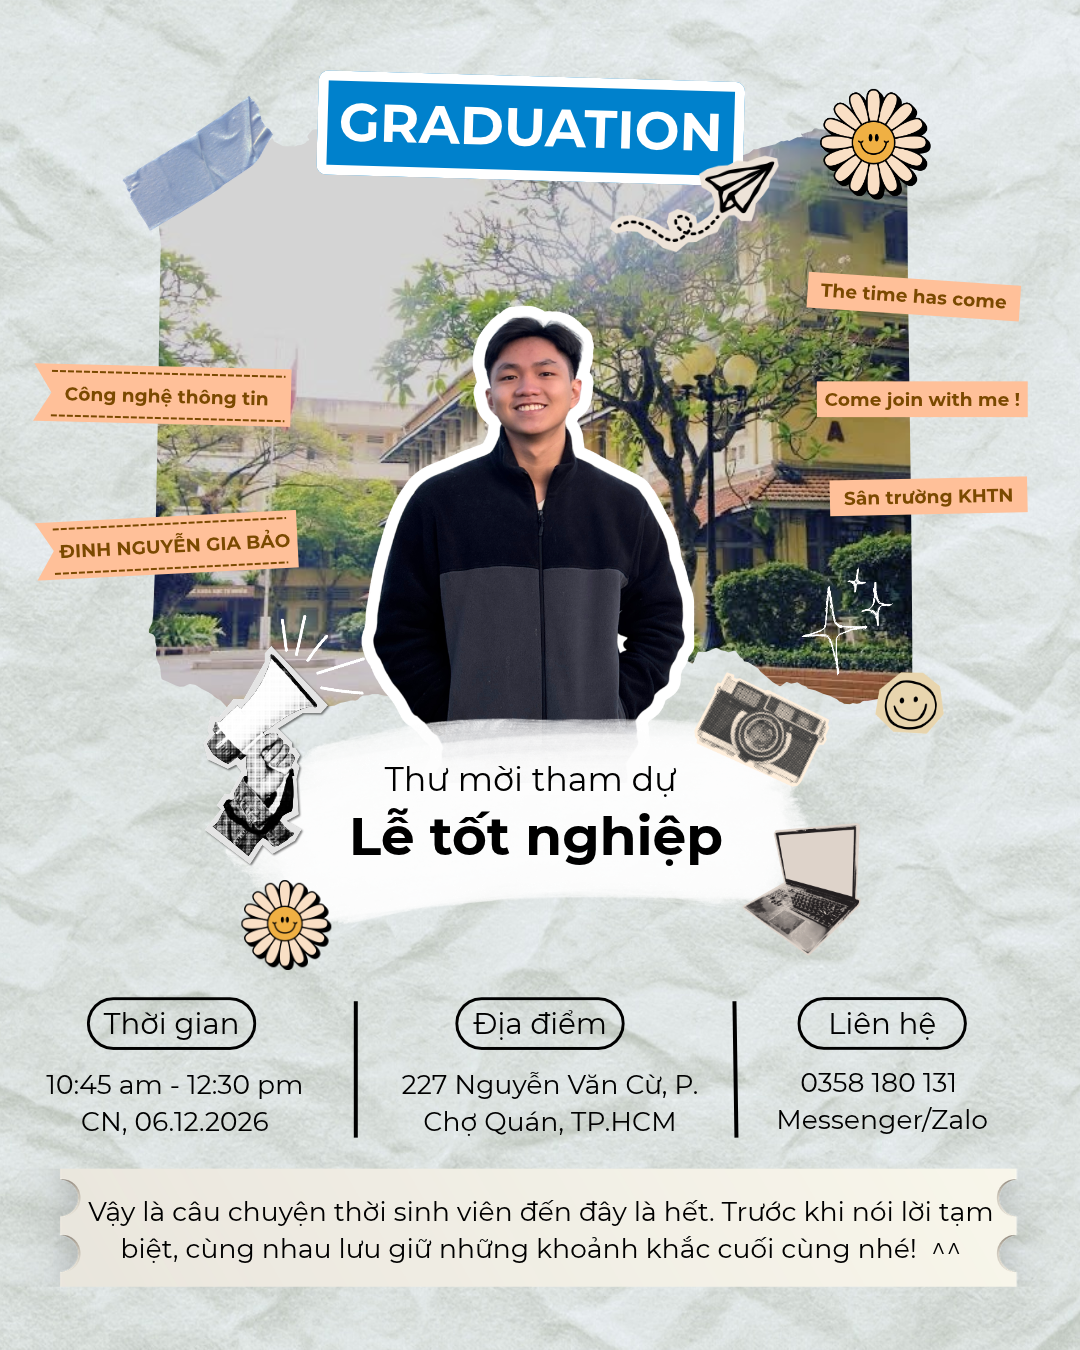
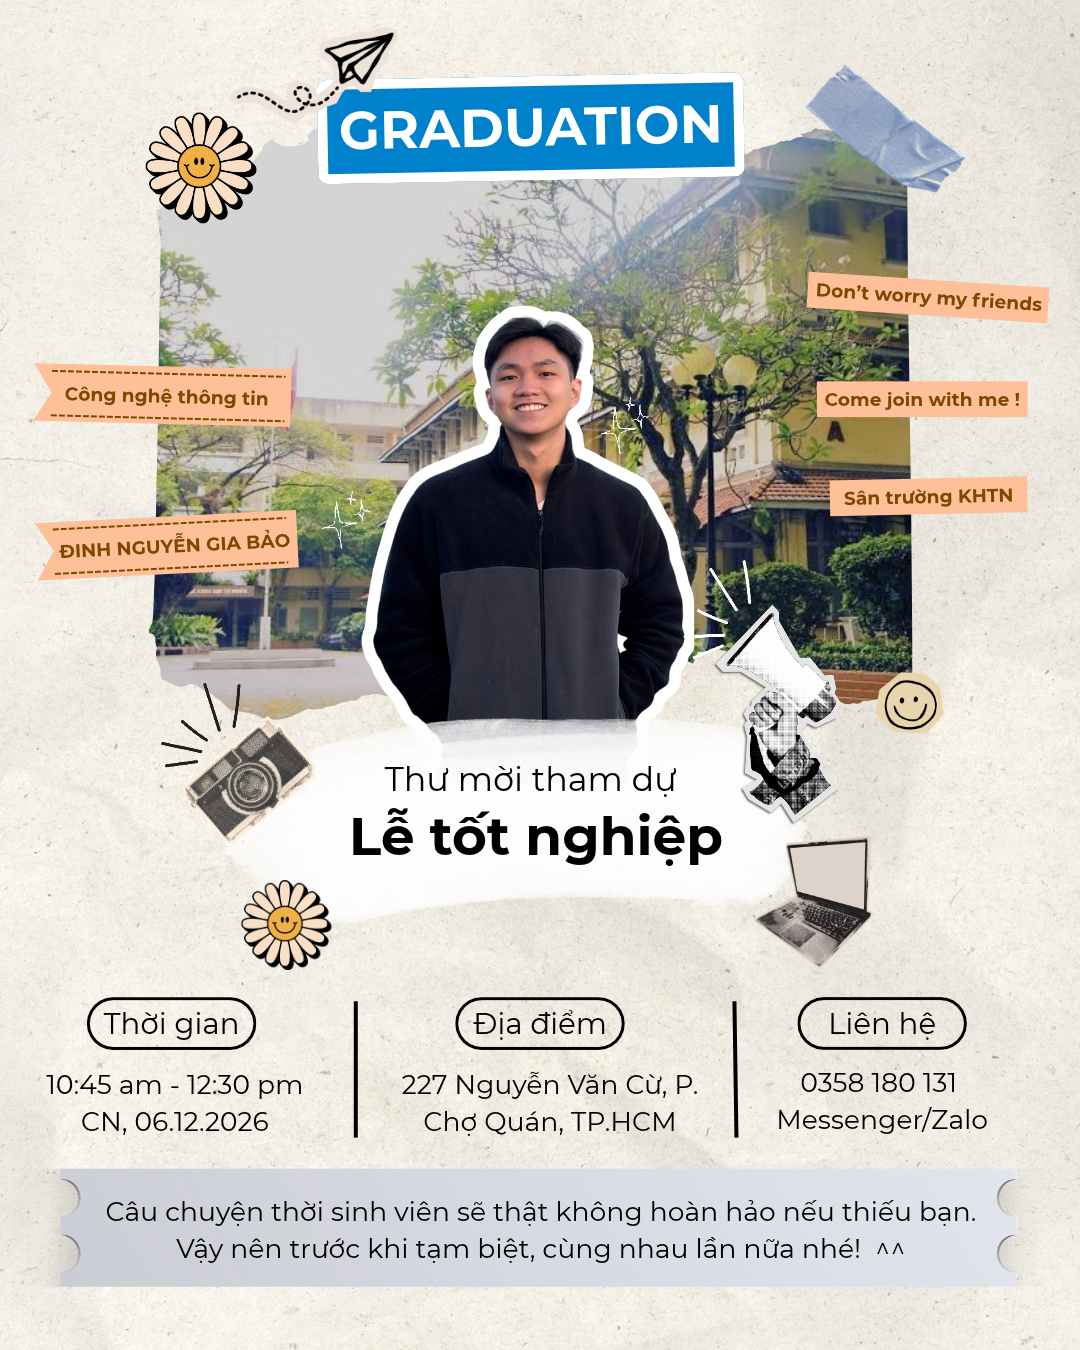
Fix image + remove option 3

diff --git a/src/components/Section1Intro.jsx b/src/components/Section1Intro.jsx
@@ -76,7 +76,7 @@ export default function Section1Intro({ selectedOption, setSelectedOption }) {
 
   useEffect(() => {
     // Target dates
-    const targetDate = (selectedOption === 'option1' || selectedOption === 'both')
+    const targetDate = selectedOption === 'option1'
       ? new Date('2026-11-26T11:00:00+07:00').getTime()
       : new Date('2026-12-06T08:30:00+07:00').getTime();
 
@@ -112,7 +112,7 @@ export default function Section1Intro({ selectedOption, setSelectedOption }) {
     if (selectedOption === 'option2') {
       return "https://calendar.google.com/calendar/render?action=TEMPLATE&text=L%E1%BB%85+T%E1%BB%91t+Nghi%E1%BB%87p+B%E1%BA%A3o+%C4%90inh+(L%E1%BB%85+Khoa+CNTT)&dates=20261206T013000Z/20261206T043000Z&details=Ch%E1%BB%A5p+%E1%BA%A3nh+k%E1%BB%B7+ni%E1%BB%87m+c%C3%B9ng+B%E1%BA%A3o+%C4%90inh+(L%E1%BB%85+Khoa+CNTT)+t%E1%BA%A1i+KHTN.+Hotline:+0358180131&location=227+Nguy%E1%BB%85n+V%C4%83n+C%E1%BB%AB,+Ph%C6%B0%E1%BB%9Dng+Ch%E1%BB%A3+Qu%C3%A1n,+Qu%E1%BA%ADn+5,+TP.HCM";
     }
-    // option1 or both → show Lễ Trường (earliest date)
+    // option1 shows the school ceremony.
     return "https://calendar.google.com/calendar/render?action=TEMPLATE&text=L%E1%BB%85+T%E1%BB%91t+Nghi%E1%BB%87p+B%E1%BA%A3o+%C4%90inh+(L%E1%BB%85+Tr%C6%B0%E1%BB%9Dng)&dates=20261126T040000Z/20261126T053000Z&details=Ch%E1%BB%A5p+%E1%BA%A3nh+k%E1%BB%B7+ni%E1%BB%87m+c%C3%B9ng+B%E1%BA%A3o+%C4%90inh+t%E1%BA%A1i+S%C3%A2n+tr%C6%B0%E1%BB%9Dng+KHTN.+Hotline:+0358180131&location=227+Nguy%E1%BB%85n+V%C4%83n+C%E1%BB%AB,+Ph%C6%B0%E1%BB%9Dng+Ch%E1%BB%A3+Qu%C3%A1n,+Qu%E1%BA%ADn+5,+TP.HCM";
   };
 
@@ -293,7 +293,7 @@ export default function Section1Intro({ selectedOption, setSelectedOption }) {
             Hãy chọn buổi nào bạn thấy thoải mái nhất bên dưới nhé!
           </p>
 
-          {/* 2 Options Cards + Option 3 */}
+          {/* Two ceremony options */}
           <div className="grid grid-cols-1 md:grid-cols-2 gap-4 pt-4 text-left">
             
             {/* OPTION 1 */}
@@ -364,31 +364,6 @@ export default function Section1Intro({ selectedOption, setSelectedOption }) {
               <div className="mt-3 inline-block text-[11px] font-semibold px-2.5 py-1 rounded-md bg-amber-500/20 text-amber-300 border border-amber-500/30">
                 💻 Lễ tốt nghiệp cấp Khoa của Khoa CNTT
               </div>
-            </div>
-
-            {/* OPTION 3: Tham dự cả 2 */}
-            <div
-              onClick={() => handleSelectOption('both')}
-              className={`cursor-pointer rounded-2xl p-5 border-2 transition-all relative md:col-span-2 ${
-                selectedOption === 'both'
-                  ? 'bg-emerald-900/40 border-emerald-400 shadow-lg shadow-emerald-500/20 scale-[1.01]'
-                  : 'bg-slate-800/60 border-slate-700 hover:border-slate-500 opacity-80 hover:opacity-100'
-              }`}
-            >
-              {selectedOption === 'both' && (
-                <div className="absolute top-3 right-3 bg-emerald-500 text-white p-1 rounded-full">
-                  <CheckCircle2 className="w-4 h-4" />
-                </div>
-              )}
-              <div className="text-xs font-mono font-bold text-emerald-300 uppercase tracking-wider mb-1">
-                Option 3 • Tham Dự Cả 2 🎉
-              </div>
-              <h3 className="text-lg font-bold text-white mb-1">
-                Thứ 5 (26.11) & Chủ Nhật (06.12.2026)
-              </h3>
-              <p className="text-xs text-slate-400 font-sans">
-                Tham dự cả Lễ Tốt Nghiệp cấp Trường lẫn Lễ Khoa CNTT — đếm ngược sẽ hiển thị theo ngày gần nhất (26.11).
-              </p>
             </div>
 
           </div>
